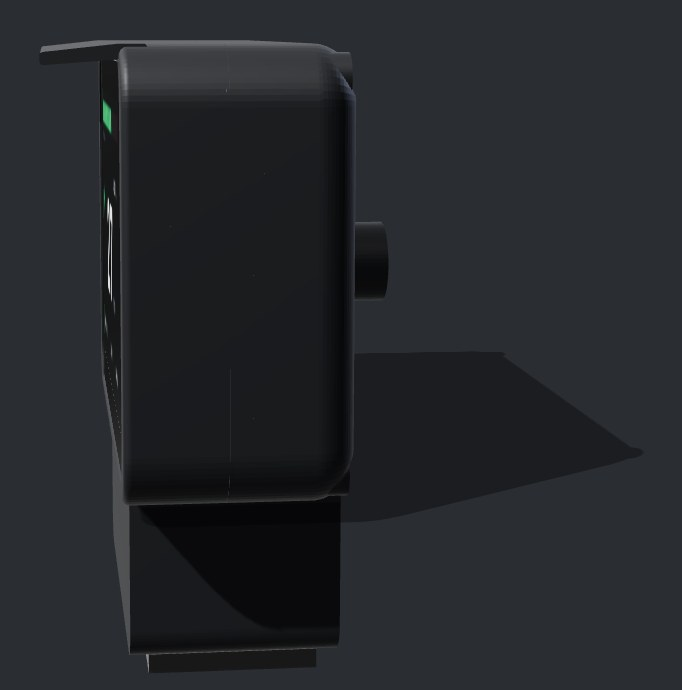
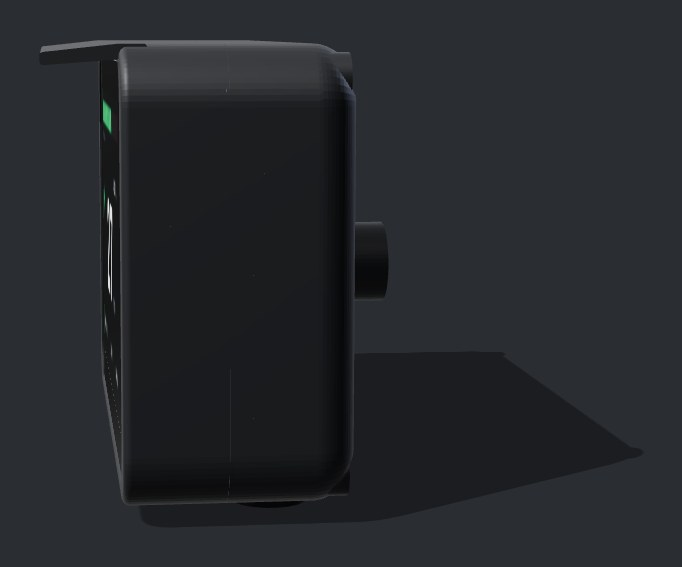
Dash pod: back to v3g as current, chin version rejected
Claude-Session: https://claude.ai/code/session_01EhMcsFTirNHtJ3fYnq5R56

diff --git a/files/dash-pod-v3/README.md b/files/dash-pod-v3/README.md
@@ -4,15 +4,15 @@ Built around the real Waveshare CAD (from waveshareteam/ESP32-S3-Touch-LCD-3.5, 
 
 **Axes (all files):** mm, Z up, Y forward, X right. The screen faces -Y. The origin is the centre of the cover glass, just behind its front face.
 
-## v3h (current): chin under the pod for one sealed rectangular bulkhead plug
+## v3h (REJECTED by Joel, "looks shite"): chin under the pod for one sealed rectangular bulkhead plug
 Joel wants all the loom wires through ONE rectangular bulkhead plug (OBD/ECU style) in the bottom.
 - **105.2 wide × 33.5 deep**, now **93.4 tall** with the chin (27 mm chin, 72 mm wide, part of the back cover). Everything else as v3g.
 - **Plug size is GUESSED** (sized for a TE AMPSEAL 23-way style header): panel cutout 56 × 20, 2 × M3 flange screws 60 c-c, body 54 × 18 × 22 deep. Set the real cutout once the part is picked.
 - Pin count needed ~20–24: 12 V ×2, earth ×2, OUT1–8, RPM ×2, brake, 5 buttons + common.
 - The chin opens up into the pod behind the split. Cable boot removed; breather vent moved to X −40.
-- v3g (no chin) is in `v3g-no-chin/`.
+- Files kept in `v3h-chin-rejected/`.
 
-## v3g: MOSFET board and GPS on the back cover
+## v3g (current again): MOSFET board and GPS on the back cover
 Joel's assembly plan: screen and processor in the front ring, MOSFET board and GPS on the back cover, so the two halves come apart as two units.
 - **Same size: 105.2 × 66.4 × 33.5 mm.** LiPo and GPS receiver still sit between the terminal strips (jumpers removed and bridged to H).
 - **MOSFET board** screws down onto 4 standoffs in the back cover with **4 × M3 × 6** from the inside, into M3 heat-set inserts in the standoff tops (holes 90 × 43).
